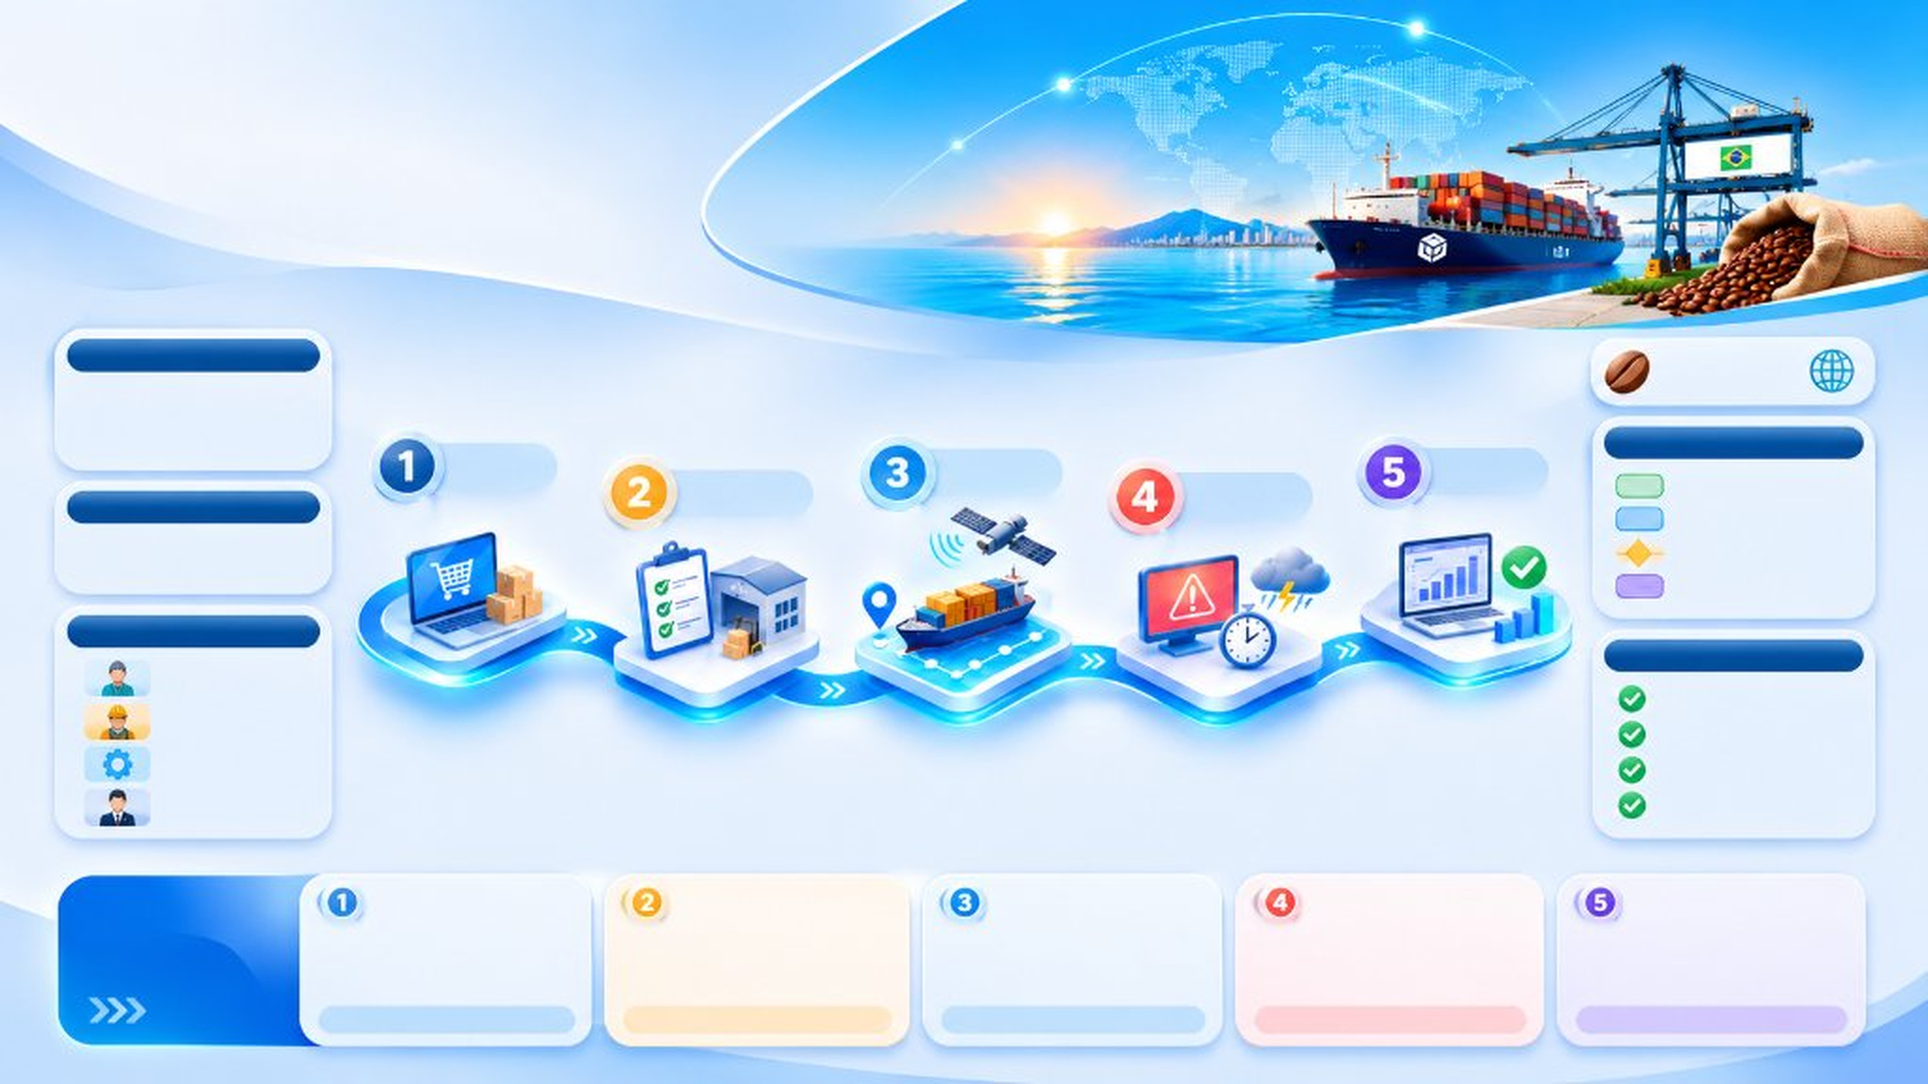
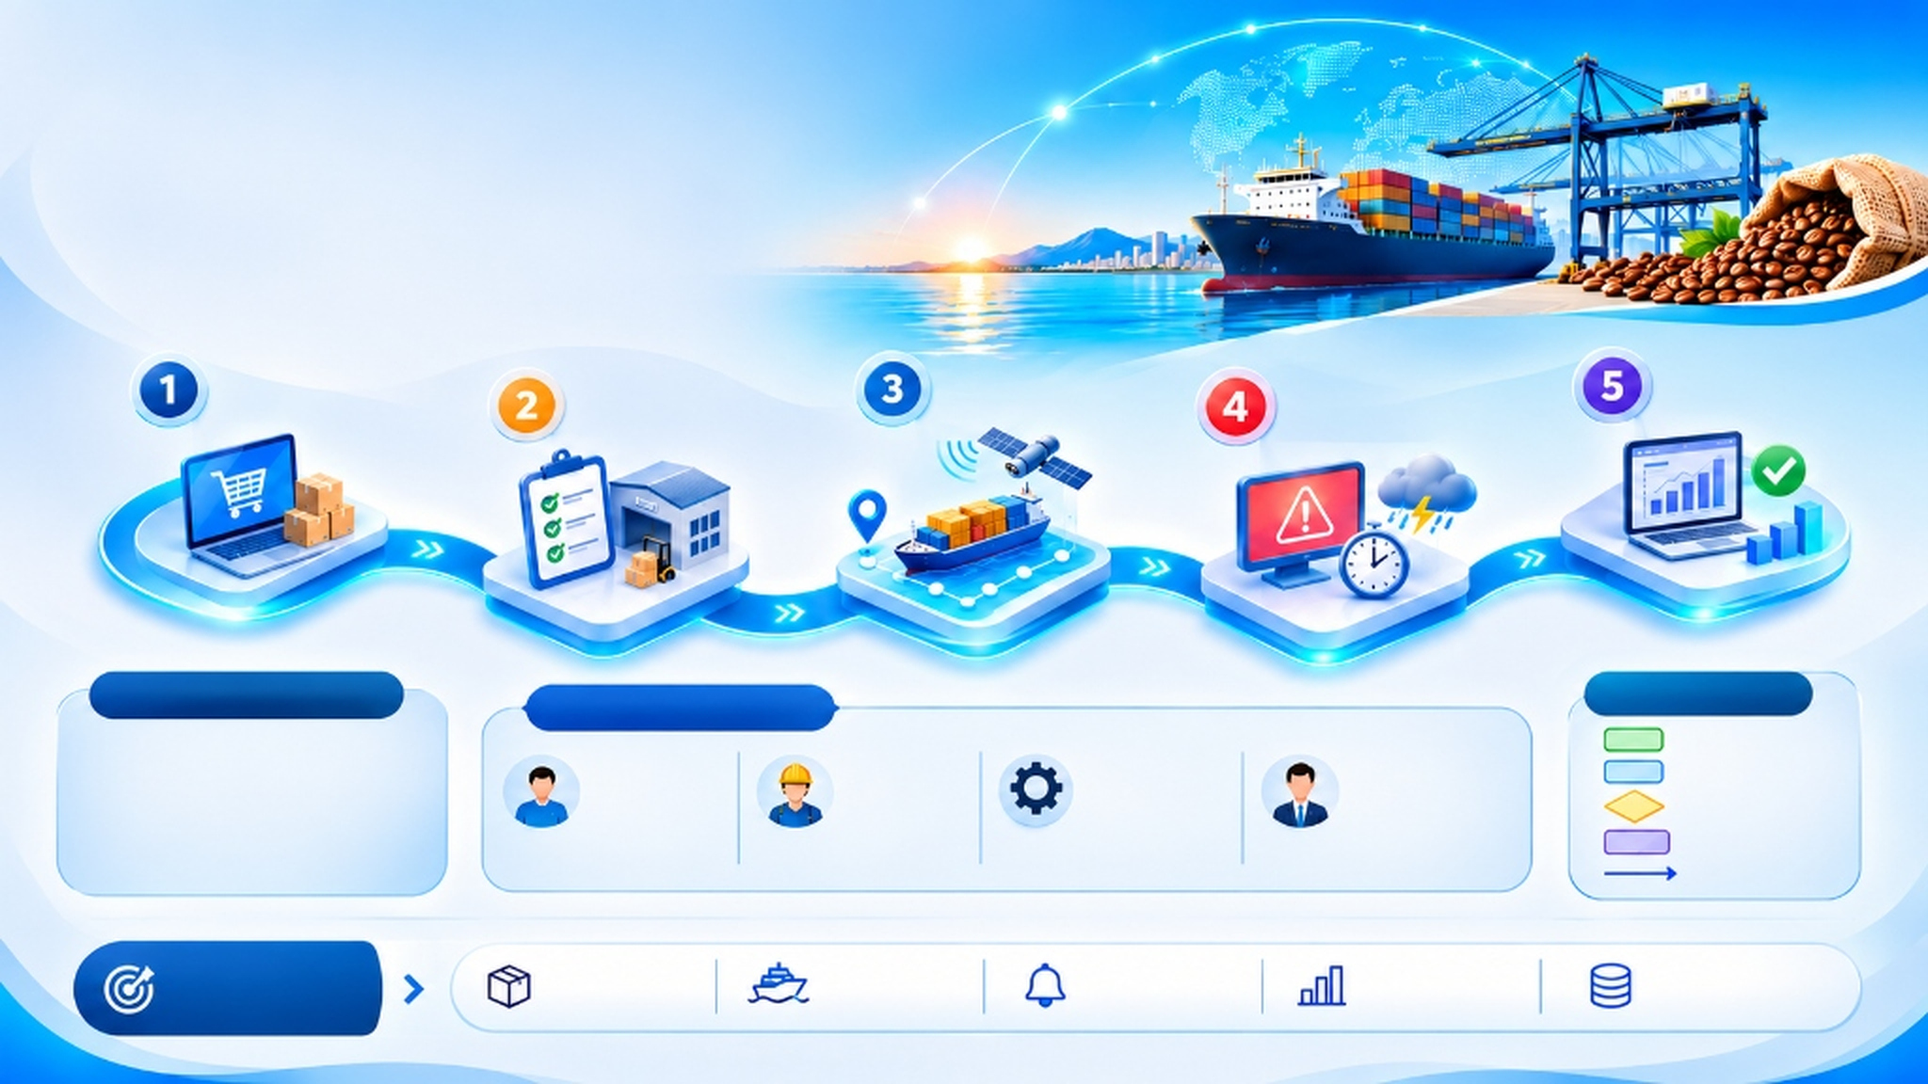
fix: apply new official alur sistem background layout with precise HD typography alignment

diff --git a/resources/views/landing.blade.php b/resources/views/landing.blade.php
@@ -861,15 +861,15 @@
                     <div class="absolute inset-0 w-full h-full pointer-events-none select-none font-sans">
                         
                         {{-- 1. Main Header Title (Top Left Sky) --}}
-                        <div class="absolute" style="left: 3.5%; top: 10%; width: 42%;">
-                            <div class="inline-flex items-center gap-1.5 px-2.5 py-0.5 rounded-full text-[0.85cqw] font-bold tracking-wider uppercase mb-1 shadow-sm alur-badge border border-current/20">
-                                <i data-lucide="activity" class="w-[1cqw] h-[1cqw]"></i>
+                        <div class="absolute" style="left: 4.5%; top: 8.0%; width: 44%;">
+                            <div class="inline-flex items-center gap-1.5 px-3 py-1 rounded-full text-[0.82cqw] font-bold tracking-wider uppercase mb-1.5 shadow-sm alur-badge border border-current/20">
+                                <i data-lucide="activity" class="w-[1.1cqw] h-[1.1cqw]"></i>
                                 <span>{{ __('FLOWMAP SISTEM TERINTEGRASI') }}</span>
                             </div>
-                            <h2 class="font-outfit text-[2.1cqw] font-extrabold tracking-tight leading-tight alur-title mb-0.5">
+                            <h2 class="font-outfit text-[2.2cqw] font-extrabold tracking-tight leading-tight alur-title mb-1">
                                 {{ __('Alur Kerja Pengiriman Kargo') }}
                             </h2>
-                            <div class="font-outfit text-[1.4cqw] font-bold alur-subtitle mb-1">
+                            <div class="font-outfit text-[1.4cqw] font-bold alur-subtitle mb-1.5">
                                 {{ __('(5 Tahap Utama)') }}
                             </div>
                             <p class="text-[0.92cqw] leading-relaxed alur-body max-w-[95%]">
@@ -877,146 +877,116 @@
                             </p>
                         </div>
 
-                        {{-- 2. Left Card 1: Tujuan Flowmap --}}
-                        <div class="absolute flex items-center justify-center" style="left: 3.5%; top: 31.8%; width: 13.2%; height: 3.5%;">
-                            <span class="text-white text-[0.85cqw] font-bold tracking-wide">{{ __('Tujuan Flowmap') }}</span>
-                        </div>
-                        <div class="absolute flex items-center justify-center px-1" style="left: 3.8%; top: 35.3%; width: 12.6%; height: 8.5%;">
-                            <p class="text-[0.72cqw] leading-snug alur-body font-medium text-center">
-                                {{ __('Menggambarkan alur kerja sistem CargoTrace secara menyeluruh, mulai dari pemesanan hingga analitik eksekusi.') }}
-                            </p>
-                        </div>
-
-                        {{-- 3. Left Card 2: Aktor Utama --}}
-                        <div class="absolute flex items-center justify-center" style="left: 3.5%; top: 45.8%; width: 13.2%; height: 3.5%;">
-                            <span class="text-white text-[0.85cqw] font-bold tracking-wide">{{ __('Aktor Utama') }}</span>
-                        </div>
-                        <div class="absolute flex items-center justify-center px-1" style="left: 3.8%; top: 49.3%; width: 12.6%; height: 7%;">
-                            <p class="text-[0.72cqw] leading-snug alur-body font-medium text-center">
-                                {{ __('Keterlibatan Customer, Operator Logistik, Sistem Otomatis, dan Administrator.') }}
-                            </p>
-                        </div>
-
-                        {{-- 4. Left Card 3: Hak Akses (4 Avatars) --}}
-                        <div class="absolute flex items-center justify-center" style="left: 3.5%; top: 57.2%; width: 13.2%; height: 3.5%;">
-                            <span class="text-white text-[0.85cqw] font-bold tracking-wide">{{ __('Hak Akses') }}</span>
-                        </div>
-                        {{-- Avatar 1: Customer --}}
-                        <div class="absolute flex flex-col justify-center" style="left: 8.0%; top: 61.2%; width: 8.5%; height: 3.8%;">
-                            <div class="text-[0.70cqw] font-bold alur-title leading-tight">{{ __('Customer (Buyer)') }}</div>
-                            <div class="text-[0.60cqw] alur-body leading-tight">{{ __('Pesan & lacak kargo') }}</div>
-                        </div>
-                        {{-- Avatar 2: Operator --}}
-                        <div class="absolute flex flex-col justify-center" style="left: 8.0%; top: 65.2%; width: 8.5%; height: 3.8%;">
-                            <div class="text-[0.70cqw] font-bold alur-title leading-tight">{{ __('Logistics Operator') }}</div>
-                            <div class="text-[0.60cqw] alur-body leading-tight">{{ __('Kelola rute & dokumen') }}</div>
-                        </div>
-                        {{-- Avatar 3: Sistem --}}
-                        <div class="absolute flex flex-col justify-center" style="left: 8.0%; top: 69.2%; width: 8.5%; height: 3.8%;">
-                            <div class="text-[0.70cqw] font-bold alur-title leading-tight">{{ __('Sistem (Otomatis)') }}</div>
-                            <div class="text-[0.60cqw] alur-body leading-tight">{{ __('Tracking IoT & notifikasi') }}</div>
-                        </div>
-                        {{-- Avatar 4: Admin --}}
-                        <div class="absolute flex flex-col justify-center" style="left: 8.0%; top: 73.2%; width: 8.5%; height: 3.8%;">
-                            <div class="text-[0.70cqw] font-bold alur-title leading-tight">{{ __('Administrator') }}</div>
-                            <div class="text-[0.60cqw] alur-body leading-tight">{{ __('Validasi data & analitik') }}</div>
-                        </div>
-
-                        {{-- 5. The 5 Steps on the 3D Wavy Path (Next to Circles) --}}
+                        {{-- 2. The 5 Steps on the 3D Wavy Path (Next to Circles) --}}
                         {{-- Step 1 --}}
-                        <div class="absolute flex items-center justify-start pl-1" style="left: 23.2%; top: 41.5%; width: 7.2%; height: 5.5%;">
-                            <span class="text-[0.75cqw] font-extrabold alur-title leading-tight tracking-tight">
+                        <div class="absolute flex items-center justify-start pl-1" style="left: 13.5%; top: 38.6%; width: 10.5%; height: 4.5%;">
+                            <span class="text-[0.78cqw] font-extrabold alur-title leading-tight tracking-tight">
                                 {{ __('Pemesanan Kargo') }}
                             </span>
                         </div>
                         {{-- Step 2 --}}
-                        <div class="absolute flex items-center justify-start pl-1" style="left: 35.6%; top: 46.5%; width: 8.2%; height: 5.5%;">
-                            <span class="text-[0.72cqw] font-extrabold alur-title leading-tight tracking-tight">
+                        <div class="absolute flex items-center justify-start pl-1" style="left: 30.2%; top: 36.0%; width: 12.0%; height: 4.5%;">
+                            <span class="text-[0.74cqw] font-extrabold alur-title leading-tight tracking-tight">
                                 {{ __('Validasi & Pengurusan Ekspedisi') }}
                             </span>
                         </div>
                         {{-- Step 3 --}}
-                        <div class="absolute flex items-center justify-start pl-1" style="left: 49.0%; top: 41.5%; width: 7.2%; height: 5.5%;">
-                            <span class="text-[0.75cqw] font-extrabold alur-title leading-tight tracking-tight">
+                        <div class="absolute flex items-center justify-start pl-1" style="left: 50.2%; top: 38.6%; width: 10.5%; height: 4.5%;">
+                            <span class="text-[0.78cqw] font-extrabold alur-title leading-tight tracking-tight">
                                 {{ __('Pelacakan Perjalanan') }}
                             </span>
                         </div>
                         {{-- Step 4 --}}
-                        <div class="absolute flex items-center justify-start pl-1" style="left: 62.0%; top: 46.5%; width: 8.5%; height: 5.5%;">
-                            <span class="text-[0.70cqw] font-extrabold alur-title leading-tight tracking-tight">
+                        <div class="absolute flex items-center justify-start pl-1" style="left: 68.2%; top: 41.0%; width: 12.0%; height: 4.5%;">
+                            <span class="text-[0.72cqw] font-extrabold alur-title leading-tight tracking-tight">
                                 {{ __('Deteksi Keterlambatan & Exception') }}
                             </span>
                         </div>
                         {{-- Step 5 --}}
-                        <div class="absolute flex items-center justify-start pl-1" style="left: 74.8%; top: 41.5%; width: 7.5%; height: 5.5%;">
-                            <span class="text-[0.75cqw] font-extrabold alur-title leading-tight tracking-tight">
+                        <div class="absolute flex items-center justify-start pl-1" style="left: 86.2%; top: 33.6%; width: 10.5%; height: 4.5%;">
+                            <span class="text-[0.78cqw] font-extrabold alur-title leading-tight tracking-tight">
                                 {{ __('Penyelesaian & Analitik') }}
                             </span>
                         </div>
 
-                        {{-- 6. Right Card 1: Legenda Simbol --}}
-                        <div class="absolute flex items-center justify-center" style="left: 83.5%; top: 39.2%; width: 13.2%; height: 3.5%;">
+                        {{-- 3. Bottom-Left Card: Tujuan Flowmap --}}
+                        <div class="absolute flex items-center justify-center" style="left: 4.7%; top: 62.0%; width: 16.1%; height: 4.0%;">
+                            <span class="text-white text-[0.85cqw] font-bold tracking-wide">{{ __('Tujuan Flowmap') }}</span>
+                        </div>
+                        <div class="absolute flex items-center justify-center px-2 text-center" style="left: 4.0%; top: 67.5%; width: 17.5%; height: 13.0%;">
+                            <p class="text-[0.76cqw] leading-relaxed alur-body font-medium">
+                                {{ __('Menggambarkan alur kerja sistem CargoTrace secara menyeluruh, mulai dari pemesanan hingga analitik eksekusi, dengan keterlibatan multi hak akses.') }}
+                            </p>
+                        </div>
+
+                        {{-- 4. Bottom-Center Card: Aktor / Hak Akses (4 Columns) --}}
+                        <div class="absolute flex items-center justify-center" style="left: 27.2%; top: 63.0%; width: 16.0%; height: 4.0%;">
+                            <span class="text-white text-[0.85cqw] font-bold tracking-wide">{{ __('Aktor / Hak Akses') }}</span>
+                        </div>
+                        {{-- Actor 1: Customer --}}
+                        <div class="absolute flex flex-col justify-center" style="left: 31.0%; top: 68.5%; width: 9.8%; height: 11.5%;">
+                            <div class="text-[0.78cqw] font-extrabold alur-title leading-tight mb-1">{{ __('Customer (Buyer)') }}</div>
+                            <div class="text-[0.66cqw] alur-body leading-snug">{{ __('Memesan kargo, melihat status, terima notifikasi.') }}</div>
+                        </div>
+                        {{-- Actor 2: Logistics Operator --}}
+                        <div class="absolute flex flex-col justify-center" style="left: 44.5%; top: 68.5%; width: 9.8%; height: 11.5%;">
+                            <div class="text-[0.78cqw] font-extrabold alur-title leading-tight mb-1">{{ __('Logistics Operator') }}</div>
+                            <div class="text-[0.66cqw] alur-body leading-snug">{{ __('Mengelola ekspedisi, dokumen, dan tracking.') }}</div>
+                        </div>
+                        {{-- Actor 3: Sistem Otomatis --}}
+                        <div class="absolute flex flex-col justify-center" style="left: 57.2%; top: 68.5%; width: 9.8%; height: 11.5%;">
+                            <div class="text-[0.78cqw] font-extrabold alur-title leading-tight mb-1">{{ __('Sistem (Otomatis)') }}</div>
+                            <div class="text-[0.66cqw] alur-body leading-snug">{{ __('Memproses data, melacak pengiriman, notifikasi.') }}</div>
+                        </div>
+                        {{-- Actor 4: Administrator --}}
+                        <div class="absolute flex flex-col justify-center" style="left: 71.0%; top: 68.5%; width: 9.8%; height: 11.5%;">
+                            <div class="text-[0.78cqw] font-extrabold alur-title leading-tight mb-1">{{ __('Administrator') }}</div>
+                            <div class="text-[0.66cqw] alur-body leading-snug">{{ __('Memantau kinerja, sistem, validasi data, & akses.') }}</div>
+                        </div>
+
+                        {{-- 5. Bottom-Right Card: Legenda Simbol --}}
+                        <div class="absolute flex items-center justify-center" style="left: 82.2%; top: 62.0%; width: 14.5%; height: 4.0%;">
                             <span class="text-white text-[0.85cqw] font-bold tracking-wide">{{ __('Legenda Simbol') }}</span>
                         </div>
-                        <div class="absolute flex items-center" style="left: 87.5%; top: 43.5%; width: 9.0%; height: 3.0%;">
+                        <div class="absolute flex items-center" style="left: 87.2%; top: 67.2%; width: 9.8%; height: 2.6%;">
                             <span class="text-[0.72cqw] font-semibold alur-title">{{ __('Mulai / Selesai') }}</span>
                         </div>
-                        <div class="absolute flex items-center" style="left: 87.5%; top: 46.8%; width: 9.0%; height: 3.0%;">
+                        <div class="absolute flex items-center" style="left: 87.2%; top: 70.4%; width: 9.8%; height: 2.6%;">
                             <span class="text-[0.72cqw] font-semibold alur-title">{{ __('Proses / Aktivitas') }}</span>
                         </div>
-                        <div class="absolute flex items-center" style="left: 87.5%; top: 50.1%; width: 9.0%; height: 3.0%;">
+                        <div class="absolute flex items-center" style="left: 87.2%; top: 73.6%; width: 9.8%; height: 2.6%;">
                             <span class="text-[0.72cqw] font-semibold alur-title">{{ __('Keputusan') }}</span>
                         </div>
-                        <div class="absolute flex items-center" style="left: 87.5%; top: 53.4%; width: 9.0%; height: 3.0%;">
+                        <div class="absolute flex items-center" style="left: 87.2%; top: 76.8%; width: 9.8%; height: 2.6%;">
                             <span class="text-[0.72cqw] font-semibold alur-title">{{ __('Data / Dokumen') }}</span>
                         </div>
-
-                        {{-- 7. Right Card 2: Hasil & Output --}}
-                        <div class="absolute flex items-center justify-center" style="left: 83.5%; top: 59.2%; width: 13.2%; height: 3.5%;">
-                            <span class="text-white text-[0.85cqw] font-bold tracking-wide">{{ __('Hasil & Output') }}</span>
-                        </div>
-                        <div class="absolute flex items-center" style="left: 87.5%; top: 63.8%; width: 9.0%; height: 3.0%;">
-                            <span class="text-[0.70cqw] font-semibold alur-title">{{ __('Order Tervalidasi') }}</span>
-                        </div>
-                        <div class="absolute flex items-center" style="left: 87.5%; top: 67.3%; width: 9.0%; height: 3.0%;">
-                            <span class="text-[0.70cqw] font-semibold alur-title">{{ __('Rute Real-Time') }}</span>
-                        </div>
-                        <div class="absolute flex items-center" style="left: 87.5%; top: 70.8%; width: 9.0%; height: 3.0%;">
-                            <span class="text-[0.70cqw] font-semibold alur-title">{{ __('Notifikasi Kendala') }}</span>
-                        </div>
-                        <div class="absolute flex items-center" style="left: 87.5%; top: 74.3%; width: 9.0%; height: 3.0%;">
-                            <span class="text-[0.70cqw] font-semibold alur-title">{{ __('Status Delivered') }}</span>
+                        <div class="absolute flex items-center" style="left: 87.2%; top: 80.0%; width: 9.8%; height: 2.6%;">
+                            <span class="text-[0.72cqw] font-semibold alur-title">{{ __('Alur Proses') }}</span>
                         </div>
 
-                        {{-- 8. Bottom 5 Outcome Cards --}}
-                        <div class="absolute flex flex-col justify-center items-start pl-4" style="left: 3.0%; top: 84.0%; width: 13.2%; height: 11.5%;">
-                            <span class="text-[0.95cqw] font-extrabold tracking-wide uppercase text-white">{{ __('HASIL SISTEM') }}</span>
-                            <span class="text-[0.70cqw] text-cyan-200 font-medium">{{ __('Output Operasional') }}</span>
+                        {{-- 6. Bottom Ribbon: Hasil / Output Sistem --}}
+                        <div class="absolute flex items-center pl-14" style="left: 3.0%; top: 86.8%; width: 17.5%; height: 10.0%;">
+                            <span class="text-[0.90cqw] font-extrabold text-white tracking-wide leading-tight">{{ __('Hasil / Output Sistem') }}</span>
                         </div>
-                        {{-- Card 1 --}}
-                        <div class="absolute flex flex-col justify-center pl-9 pr-2" style="left: 17.0%; top: 84.5%; width: 14.5%; height: 11.0%;">
-                            <div class="text-[0.82cqw] font-extrabold alur-title leading-tight mb-0.5">{{ __('Order Tercatat') }}</div>
-                            <div class="text-[0.66cqw] alur-body leading-snug">{{ __('Pesanan tervalidasi di sistem secara real-time.') }}</div>
+                        {{-- Box 1 --}}
+                        <div class="absolute flex items-center" style="left: 28.5%; top: 87.5%; width: 10.5%; height: 8.5%;">
+                            <span class="text-[0.74cqw] font-semibold alur-title leading-snug">{{ __('Order kargo tercatat & tervalidasi') }}</span>
                         </div>
-                        {{-- Card 2 --}}
-                        <div class="absolute flex flex-col justify-center pl-9 pr-2" style="left: 33.0%; top: 84.5%; width: 14.5%; height: 11.0%;">
-                            <div class="text-[0.82cqw] font-extrabold alur-title leading-tight mb-0.5">{{ __('Validasi Ekspedisi') }}</div>
-                            <div class="text-[0.66cqw] alur-body leading-snug">{{ __('Kelengkapan dokumen bea cukai & kontainer.') }}</div>
+                        {{-- Box 2 --}}
+                        <div class="absolute flex items-center" style="left: 42.5%; top: 87.5%; width: 10.5%; height: 8.5%;">
+                            <span class="text-[0.74cqw] font-semibold alur-title leading-snug">{{ __('Rute & pelacakan real-time di peta') }}</span>
                         </div>
-                        {{-- Card 3 --}}
-                        <div class="absolute flex flex-col justify-center pl-9 pr-2" style="left: 49.0%; top: 84.5%; width: 14.5%; height: 11.0%;">
-                            <div class="text-[0.82cqw] font-extrabold alur-title leading-tight mb-0.5">{{ __('Pelacakan Maritim') }}</div>
-                            <div class="text-[0.66cqw] alur-body leading-snug">{{ __('Monitoring posisi kapal & kontainer via satelit.') }}</div>
+                        {{-- Box 3 --}}
+                        <div class="absolute flex items-center" style="left: 56.5%; top: 87.5%; width: 10.5%; height: 8.5%;">
+                            <span class="text-[0.74cqw] font-semibold alur-title leading-snug">{{ __('Notifikasi otomatis jika ada kendala') }}</span>
                         </div>
-                        {{-- Card 4 --}}
-                        <div class="absolute flex flex-col justify-center pl-9 pr-2" style="left: 65.0%; top: 84.5%; width: 14.5%; height: 11.0%;">
-                            <div class="text-[0.82cqw] font-extrabold alur-title leading-tight mb-0.5">{{ __('Deteksi Exception') }}</div>
-                            <div class="text-[0.66cqw] alur-body leading-snug">{{ __('Peringatan dini anomali rute & cuaca buruk.') }}</div>
+                        {{-- Box 4 --}}
+                        <div class="absolute flex items-center" style="left: 71.0%; top: 87.5%; width: 10.5%; height: 8.5%;">
+                            <span class="text-[0.74cqw] font-semibold alur-title leading-snug">{{ __('Status pengiriman hingga Delivered') }}</span>
                         </div>
-                        {{-- Card 5 --}}
-                        <div class="absolute flex flex-col justify-center pl-9 pr-2" style="left: 81.0%; top: 84.5%; width: 14.5%; height: 11.0%;">
-                            <div class="text-[0.82cqw] font-extrabold alur-title leading-tight mb-0.5">{{ __('Analitik Bisnis') }}</div>
-                            <div class="text-[0.66cqw] alur-body leading-snug">{{ __('Kargo delivered & data evaluasi performa bisnis.') }}</div>
+                        {{-- Box 5 --}}
+                        <div class="absolute flex items-center" style="left: 85.5%; top: 87.5%; width: 10.5%; height: 8.5%;">
+                            <span class="text-[0.74cqw] font-semibold alur-title leading-snug">{{ __('Data analitik bisnis untuk keputusan') }}</span>
                         </div>
 
                     </div>
